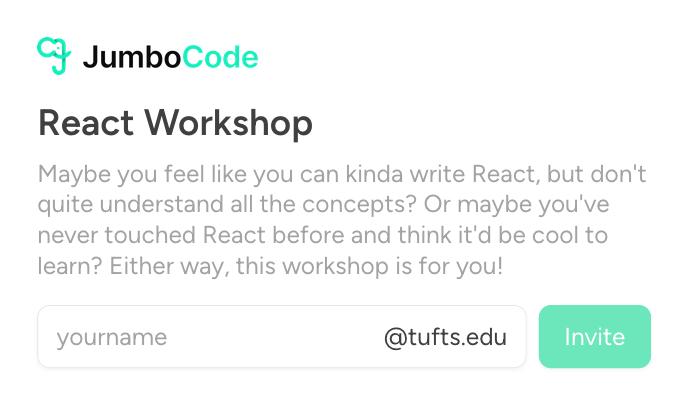
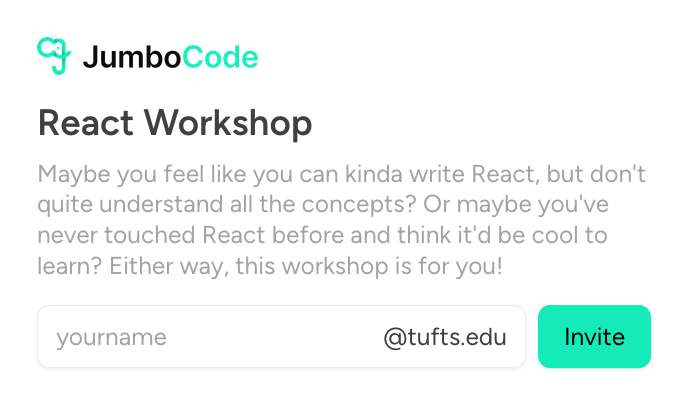
Fix invitation button

diff --git a/resources/js/Pages/Invitation.svelte b/resources/js/Pages/Invitation.svelte
@@ -88,14 +88,14 @@
                             <input bind:value={$form.email} class="focus:!border-[var(--color)] !ring-[var(--color-light)]" required type="email" placeholder="ceo@profit.biz">
                         {/if}
                     </label>
-                    
-                    <Button submit={true} class="relative {textColorClass} !bg-[var(--color)] !border-[var(--color)]" style="primary">
+
+                    <button class="{textColorClass} relative bg-[var(--color)] border border-[var(--color)] rounded-lg px-4 py-2 shadow-sm transition-all" type="submit">
                         <div class:opacity-100={$form.processing} class="opacity-0 absolute top-1/2 left-1/2 -translate-y-1/2 -translate-x-1/2">
                             <Icon class="w-5 animate-spin" src={Loader4}/>
                         </div>
 
                         <span class:opacity-0={$form.processing}>Invite</span>
-                    </Button>
+                    </button>
                 </form>
             {/if}
         </div>
